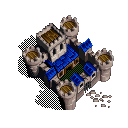
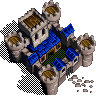
Refined factory system.

diff --git a/core/src/com/redtoorange/warbound/buildings/Building.java b/core/src/com/redtoorange/warbound/buildings/Building.java
@@ -20,6 +20,10 @@ import com.redtoorange.warbound.units.Unit;
  */
 public abstract class Building implements GameObject {
     public static final String TAG = Building.class.getSimpleName();
+
+    public static final int STARTED = 0, PARTIAL = 1, COMPLETE = 2;
+    protected TextureRegion[] regions;
+
     protected BuildingController controller;
     protected PlayerController owner;
 
@@ -38,9 +42,11 @@ public abstract class Building implements GameObject {
 
     protected boolean canBeEntered = false;
 
-    public Building( String name, TextureRegion texture, int width, int height, BuildingController controller){
+    public Building( String name, TextureRegion[] regions, int width, int height, BuildingController controller){
         this.name = name;
-        sprite = new Sprite( texture );
+        this.regions = regions;
+
+        sprite = new Sprite( regions[ COMPLETE ] );
         sprite.setAlpha( 0.5f );
         sprite.setSize( width, height );
         currentTiles = new MapTile[width][height];
@@ -146,6 +152,8 @@ public abstract class Building implements GameObject {
 
         if( success ){
             unpaintTiles();
+
+            sprite.setRegion( regions[STARTED] );
             sprite.setAlpha( 1.0f );
             buildingState = BuildingState.CONSTRUCTION_HALTED;
 
@@ -195,6 +203,7 @@ public abstract class Building implements GameObject {
 
 
     protected void finishConstruction(){
+        sprite.setRegion( regions[COMPLETE] );
         buildingState = BuildingState.COMPLETE;
         controller.updateUI();
     }
@@ -204,6 +213,10 @@ public abstract class Building implements GameObject {
     public void constructBuilding( float amount ){
         if( isCurrentlyBeingBuilt() ){
             amountConstructed += amount;
+            if( amountConstructed / constructionTime >= 0.5f){
+                sprite.setRegion( regions[PARTIAL] );
+            }
+
             if( amountConstructed >= constructionTime){
                 finishConstruction();
             }

diff --git a/core/src/com/redtoorange/warbound/buildings/Barracks.java b/core/src/com/redtoorange/warbound/buildings/Barracks.java
@@ -1,5 +1,6 @@
 package com.redtoorange.warbound.buildings;
 
+import com.badlogic.gdx.graphics.Texture;
 import com.badlogic.gdx.graphics.g2d.TextureRegion;
 import com.redtoorange.warbound.map.MapTile;
 import com.redtoorange.warbound.units.Peon;
@@ -15,12 +16,18 @@ import com.redtoorange.warbound.units.UnitType;
 public class Barracks extends Building {
     public static final String TAG = Barracks.class.getSimpleName();
 
+    private static TextureRegion[] regions = {
+            new TextureRegion( new Texture( "wc2_buildings/large_building_started.png" ) ),
+            new TextureRegion( new Texture( "wc2_buildings/barracks_building.png" ) ),
+            new TextureRegion( new Texture( "wc2_buildings/barracks.png" ) ),
+    };
+
     private boolean producing = false;
     private float progress = 0.0f;
     private float totalTime = 0.0f;
 
-    public Barracks( String name, TextureRegion texture, int width, int height, BuildingController controller ) {
-        super( name, texture, width, height, controller );
+    public Barracks( String name, int width, int height, BuildingController controller ) {
+        super( name, regions, width, height, controller );
 
         canBeEntered = true;
     }

diff --git a/core/src/com/redtoorange/warbound/buildings/Farm.java b/core/src/com/redtoorange/warbound/buildings/Farm.java
@@ -1,5 +1,6 @@
 package com.redtoorange.warbound.buildings;
 
+import com.badlogic.gdx.graphics.Texture;
 import com.badlogic.gdx.graphics.g2d.TextureRegion;
 import com.redtoorange.warbound.Resource;
 
@@ -12,8 +13,14 @@ import com.redtoorange.warbound.Resource;
 public class Farm extends Building {
     private int productionAmount = 10;
 
-    public Farm( String name, TextureRegion texture, int width, int height, BuildingController controller ) {
-        super( name, texture, width, height, controller );
+    private static TextureRegion[] regions = {
+            new TextureRegion( new Texture( "wc2_buildings/small_building_started.png" ) ),
+            new TextureRegion( new Texture( "wc2_buildings/farm_building.png" ) ),
+            new TextureRegion( new Texture( "wc2_buildings/farm.png" ) ),
+    };
+
+    public Farm( String name, int width, int height, BuildingController controller ) {
+        super( name, regions, width, height, controller );
     }
 
     @Override

diff --git a/core/src/com/redtoorange/warbound/buildings/BuildingFactory.java b/core/src/com/redtoorange/warbound/buildings/BuildingFactory.java
@@ -1,8 +1,5 @@
 package com.redtoorange.warbound.buildings;
 
-import com.badlogic.gdx.graphics.Texture;
-import com.badlogic.gdx.graphics.g2d.TextureRegion;
-
 /**
  * BuildingFactory.java - Description
  *
@@ -16,15 +13,11 @@ public class BuildingFactory {
      * @return  Constructed building ready to be placed.
      */
     public static Building BuildBarracks( BuildingController controller){
-        return new Barracks( "Barracks",
-                new TextureRegion( new Texture( "wc2_buildings/barracks.png" ) ),
-                4, 4,  controller);
+        return new Barracks( "Barracks", 4, 4,  controller);
     }
 
     public static Building BuildFarm( BuildingController controller){
-        return new Farm( "Farm",
-                new TextureRegion( new Texture( "wc2_buildings/farm.png" ) ),
-                2, 2,  controller);
+        return new Farm( "Farm", 2, 2,  controller);
     }
 
 
